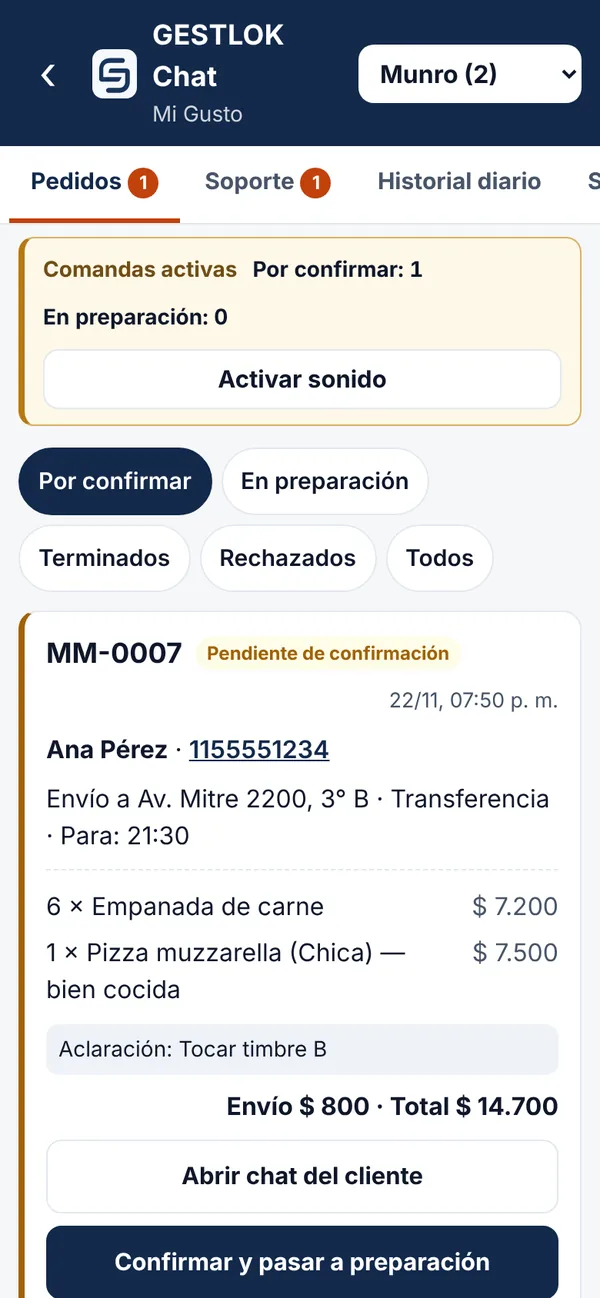
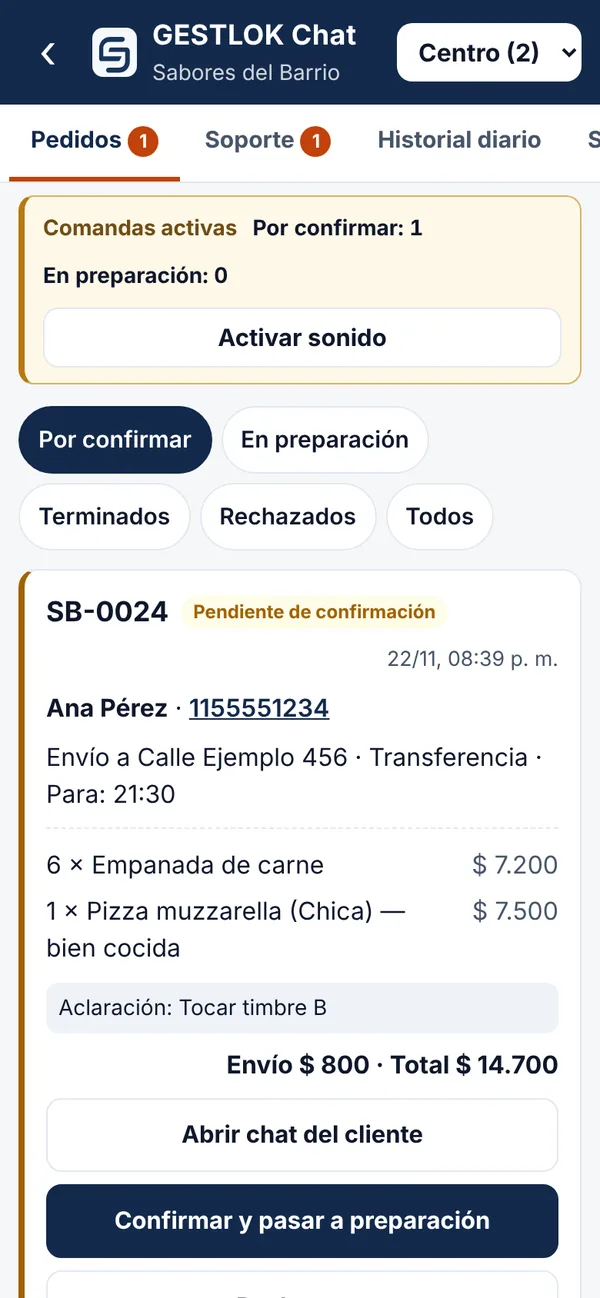
Inicio: cuadros de GESTLOK Chat con local, productos y precios ficticios
Claude-Session: https://claude.ai/code/session_01BkXYuSNurRYqiWNCuPYVRg

Changed region(s): [[0.0, 0.0, 1.0, 0.832], [0.06, 0.7704, 0.93, 1.0], [0.9, 0.4931, 0.93, 0.5547]]

diff --git a/components/gestlok-home.tsx b/components/gestlok-home.tsx
@@ -10,7 +10,7 @@ const SUPABASE_URL = "https://vgsepaaewbctjsjcpeta.supabase.co";
 const SUPABASE_ANON =
   "eyJhbGciOiJIUzI1NiIsInR5cCI6IkpXVCJ9.eyJpc3MiOiJzdXBhYmFzZSIsInJlZiI6InZnc2VwYWFld2JjdGpzamNwZXRhIiwicm9sZSI6ImFub24iLCJpYXQiOjE3OTI1NDEwNjEsImV4cCI6MjEwODExNzA2MX0.WFeUP95DJAOOsiZ5BbBvqT1QURmA5KJLDjlDpwuU838";
 
-// Cuadros del carrusel: pantallas reales de GESTLOK Chat (carta y local reales de Mi Gusto Munro).
+// Cuadros del carrusel: pantallas de GESTLOK Chat con un local, productos, precios y cliente ficticios («Sabores del Barrio»).
 const CUADROS: ReadonlyArray<{ img: string; titulo: string; texto: string; alt: string }> = [
   { img: "1-bienvenida", titulo: "Tu cliente entra y pide", alt: "Pantalla de bienvenida del chat de un local con el botón Hacer un pedido",
     texto: "Abre el chat de tu local desde un enlace o un QR y toca «Hacer un pedido». Sin descargar nada." },
@@ -209,7 +209,7 @@ export function GestlokHome() {
           <div className="glh-apps-cab">
             <div>
               <h2 id="glh-como-titulo">Así funciona GESTLOK Chat</h2>
-              <p>Pantallas reales de un local que ya lo usa.</p>
+              <p>Pantallas de GESTLOK Chat. Local, productos y precios de ejemplo.</p>
             </div>
             <div className="glh-car-ctrl">
               <button type="button" className="glh-btn glh-btn-claro glh-flecha" aria-label="Cuadro anterior" onClick={() => irA((actual + CUADROS.length - 1) % CUADROS.length)}>
